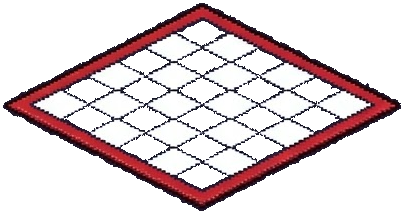
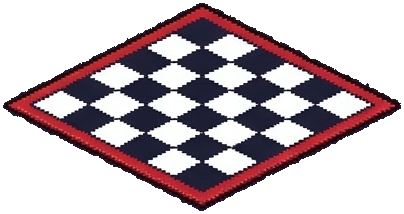
ラグを最背面の平物に整理し、チェッカーマットの抜けを修正
3点直した。

1. チェッカーマットの黒が透過していた
   生成時に黒マスが背景と同じ紺で塗られていたため、「囲まれた背景を抜く」処理が
   模様ごと抜いていた(輪郭内の透明 26.8%)。cut_props.py に NO_POCKET を設け、
   din_rug を除外して切り直した(0.1%)。

2. ラグが浮いて見えた
   他の家具と同じ足元基準(origin 0.5,1)だったため絵の中心がマス中心より奥へ
   ズレていた。平物は origin(0.5,0.5) にしてマス中心に寝かせる。
   描画深度も画面yではなく固定値 -950 にし、床(-999)より上・他のすべてより下に
   固定した(手前のマスに敷いても家具やキャラに被らない)。

3. ラグ同士の重ね置きを禁止
   家具の occ とは別に rugOcc を持たせ、ラグは「家具のマスにも敷けるが
   ラグ同士は1マス1枚」にした。既に敷いてあるマスを指定した場合は空きマスへ回す
   (起動時の読み込みで重複していた分も同じ経路で自動的にばらける)。
   ラグは occ を使わないので、キャラが上を歩けて物も重ねて置ける点は維持。

Changed region(s): [[0.1485, 0.0841, 0.8317, 0.8972]]

diff --git a/game/main.js b/game/main.js
@@ -94,6 +94,9 @@ const FURN_SPAN = { chair:1, table:2, shelf:1, sofa:2, rug:2, lamp:2, plant:2 };
 // ラグは床に敷くだけの平物。セルを占有しないので上に家具を置け、キャラも上を歩ける。
 // 汎用の 'rug' と各テーマの '<pre>_rug' が対象。
 const isFlatProp = (sub)=> /(^|_)rug$/.test(String(sub));
+// ラグの描画深度。床(-999)より上・他のオブジェクト(depth=画面y なので正の値)より下に固定し、
+// 手前のマスに敷いても家具やキャラの上に被らないようにする。
+const RUG_DEPTH = -950;
 const propSpan = (name)=> PROP_SPAN[name] || FURN_SPAN[String(name).split('_')[1]] || 1;
 window.PROP_SPAN = PROP_SPAN;   // ショップ表示(factory-phaser.html)から参照
 // 収納(=在庫に戻す)の対象。在庫を持つ種類だけ。絵文字装飾やガチャ景品は在庫が無く、
@@ -159,7 +162,7 @@ class Main extends Phaser.Scene {
     const grd=shg.createRadialGradient(32,16,1,32,16,30); grd.addColorStop(0,'rgba(0,0,0,0.5)'); grd.addColorStop(1,'rgba(0,0,0,0)');
     shg.fillStyle=grd; shg.fillRect(0,0,64,32); this.textures.addCanvas('shadow',shc);
 
-    this.occ=new Set(); this.machineCells=[]; this.placed=[]; this.editMode=false;
+    this.occ=new Set(); this.rugOcc=new Set(); this.machineCells=[]; this.placed=[]; this.editMode=false;
     for(const o of DEMO){ const isM=MACHINES.includes(o.k);
       this.addPlaced(isM?'machine':'deco', isM?o.k.replace('m_',''):o.k.replace('dec_',''), {cell:{c:o.c,r:o.r}, silent:true}); }
     this.setupEdit();
@@ -246,8 +249,10 @@ class Main extends Phaser.Scene {
       const sh=this.add.image(p.x+CELL*0.2,p.y+CELL*0.1,'shadow').setDepth(p.y-0.5).setRotation(0.5).setDisplaySize(img.displayWidth*1.05,img.displayWidth*0.5).setAlpha(0.5);
       objs.push(sh,img); main=img; e._lit=img; this.lit.push({sp:img,u,v});
     } else if(e.kind==='prop'){
-      const flat=isFlatProp(e.sub);                      // ラグ: 床に敷くだけ。影は出さず、同じセルの物より下に描く
-      const img=this.add.image(p.x,p.y,'prop_'+e.sub).setOrigin(0.5,1).setDepth(flat?p.y-1:p.y); img.setScale(1.35*Math.sqrt(propSpan(e.sub))*CELL/img.height).setTint(tint);
+      // ラグは床に寝かせる平物: 影なし・マス中心に置く(足元基準だと奥にズレて浮いて見える)・常に最背面
+      const flat=isFlatProp(e.sub);
+      const img=this.add.image(p.x,p.y,'prop_'+e.sub).setOrigin(0.5,flat?0.5:1).setDepth(flat?RUG_DEPTH:p.y);
+      img.setScale(1.35*Math.sqrt(propSpan(e.sub))*CELL/img.height).setTint(tint);
       if(!flat){
         const sh=this.add.image(p.x+CELL*0.2,p.y+CELL*0.09,'shadow').setDepth(p.y-0.5).setRotation(0.5).setDisplaySize(img.displayWidth*1.0,img.displayWidth*0.46).setAlpha(0.5);
         objs.push(sh);
@@ -269,12 +274,13 @@ class Main extends Phaser.Scene {
   }
   addPlaced(kind, sub, extra){ extra=extra||{};
     if(kind==='deco' && !this.textures.exists('dec_'+sub)) return null;
-    // ラグはセルを占有しないので、埋まっているセルにも敷けるし、上に物も置ける
+    // ラグは家具の占有(occ)を見ないので埋まっているマスにも敷けるが、ラグ同士(rugOcc)は重ねない
     const flat = kind==='prop' && isFlatProp(sub);
-    const cell = flat ? (extra.cell || this.freeCell())
-                      : ((extra.cell && this.isFree(extra.cell.c,extra.cell.r)) ? extra.cell : this.freeCell());
+    const cell = flat
+      ? ((extra.cell && this.isRugFree(extra.cell.c,extra.cell.r)) ? extra.cell : this.freeRugCell())
+      : ((extra.cell && this.isFree(extra.cell.c,extra.cell.r)) ? extra.cell : this.freeCell());
     const e={ id: extra.id||('o'+(this._oid=(this._oid||0)+1)), kind, sub, lvl:extra.lvl||1, cell };
-    this._makeObjs(e); if(!flat) this.occ.add(K(cell.c,cell.r)); this.placed.push(e);
+    this._makeObjs(e); (flat?this.rugOcc:this.occ).add(K(cell.c,cell.r)); this.placed.push(e);
     if(this.editMode) this._enableDrag(e);
     if(!extra.silent){ const p=cellXY(cell.c,cell.r); this._spawnPop(p.x,p.y); }
     return e.id;
@@ -282,16 +288,16 @@ class Main extends Phaser.Scene {
   _detach(e){ for(const o of e.objs) o.destroy();
     if(e._lit){ const i=this.lit.findIndex(x=>x.sp===e._lit); if(i>=0)this.lit.splice(i,1); }
     if(e.kind==='machine'){ const i=this.machineCells.findIndex(m=>m.c===e.cell.c&&m.r===e.cell.r); if(i>=0)this.machineCells.splice(i,1); } }
-  // ラグは占有していないので、撤去や移動のときに同じセルの物の占有を消さないよう分岐する
+  // ラグは家具とは別の占有レイヤー(rugOcc)なので、撤去・移動では触る側を切り替える
   isFlat(e){ return e.kind==='prop' && isFlatProp(e.sub); }
   removeItem(id){ const i=this.placed.findIndex(e=>e.id===id); if(i<0)return false; const e=this.placed[i];
     if(this.sel) this.sel.delete(id);
-    this._detach(e); if(!this.isFlat(e)) this.occ.delete(K(e.cell.c,e.cell.r)); this.placed.splice(i,1); return true; }
+    this._detach(e); (this.isFlat(e)?this.rugOcc:this.occ).delete(K(e.cell.c,e.cell.r)); this.placed.splice(i,1); return true; }
   moveItem(id,c,r){ const e=this.placed.find(x=>x.id===id); if(!e)return false;
     const flat=this.isFlat(e), same=(e.cell.c===c&&e.cell.r===r);
-    if(!flat && !same && !this.isFree(c,r)) return false;
-    this._detach(e); if(!flat) this.occ.delete(K(e.cell.c,e.cell.r));
-    e.cell={c,r}; this._makeObjs(e); if(!flat) this.occ.add(K(c,r));
+    if(!same && !(flat ? this.isRugFree(c,r) : this.isFree(c,r))) return false;
+    this._detach(e); (flat?this.rugOcc:this.occ).delete(K(e.cell.c,e.cell.r));
+    e.cell={c,r}; this._makeObjs(e); (flat?this.rugOcc:this.occ).add(K(c,r));
     if(this.editMode) this._enableDrag(e); return true; }
   getLayout(){ return this.placed.map(e=>({id:e.id,kind:e.kind,sub:e.sub,lvl:e.lvl,c:e.cell.c,r:e.cell.r})); }
   buildLayout(list){ for(const e of this.placed.slice()) this.removeItem(e.id);
@@ -505,6 +511,11 @@ class Main extends Phaser.Scene {
       g.fillStyle(pal.m1,0.95); g.fillPoints(ins(0.60),true);   // 芯ダイヤ(モチーフ)
     } }
   isFree(c,r){ return c>=0&&r>=0&&c<GU&&r<GV && !this.occ.has(K(c,r)); }
+  // ラグは家具とは別レイヤーで1マス1枚。家具のあるマスにも敷けるが、ラグ同士は重ねない
+  isRugFree(c,r){ return c>=0&&r>=0&&c<GU&&r<GV && !this.rugOcc.has(K(c,r)); }
+  freeRugCell(){ for(let i=0;i<80;i++){ const c=1+Math.floor(Math.random()*(GU-2)), r=1+Math.floor(Math.random()*(GV-2)); if(this.isRugFree(c,r)) return {c,r}; }
+    for(let c=0;c<GU;c++) for(let r=0;r<GV;r++) if(this.isRugFree(c,r)) return {c,r};
+    return {c:1,r:1}; }
   freeCell(){ for(let i=0;i<50;i++){ const c=1+Math.floor(Math.random()*(GU-2)), r=1+Math.floor(Math.random()*(GV-2)); if(this.isFree(c,r)) return {c,r}; } return {c:1,r:1}; }
   freeCellIn(minr,maxr){ for(let i=0;i<40;i++){ const c=1+Math.floor(Math.random()*(GU-2)), r=minr+Math.floor(Math.random()*(maxr-minr+1)); if(this.isFree(c,r)) return {c,r}; } return null; }
   freeAdjacent(cell){ const dirs=[[1,0],[-1,0],[0,1],[0,-1]]; Phaser.Utils.Array.Shuffle(dirs);

diff --git a/tools/cut_props.py b/tools/cut_props.py
@@ -51,6 +51,10 @@ SHEETS = {
                            'hal_rug', 'hal_lamp', 'hal_plant', 'hal_pumpkin']),
 }
 ROWS = 2
+# 「囲まれた背景を抜く」処理を無効にするアイテム。
+# 背景と同じ紺で塗られた模様(ダイナーのチェッカー柄の黒マス等)を持つ物は、
+# ポケット除去が模様ごと抜いてしまうので除外する。
+NO_POCKET = {'din_rug'}
 PAD = 3          # 切り出し後に足す余白(px)
 ERODE = 2        # 影判定の収縮半径(px)
 BLOB_MIN = 150   # 収縮後にこれだけ残れば「塊」=影
@@ -366,7 +370,7 @@ def main(src_dir, out_dir):
             y0, y1 = (0, splits[cx]) if cy == 0 else (splits[cx], H)
             cell = Cell(px, x0, y0, x1, y1)
             cell.fill_from_edges(test)
-            pockets = cell.fill_pockets(make_bg_test(bgc, 0.85), 300)
+            pockets = 0 if name in NO_POCKET else cell.fill_pockets(make_bg_test(bgc, 0.85), 300)
             shadows = []
             for _ in range(3):
                 s_ = cell.strip_shadow()
